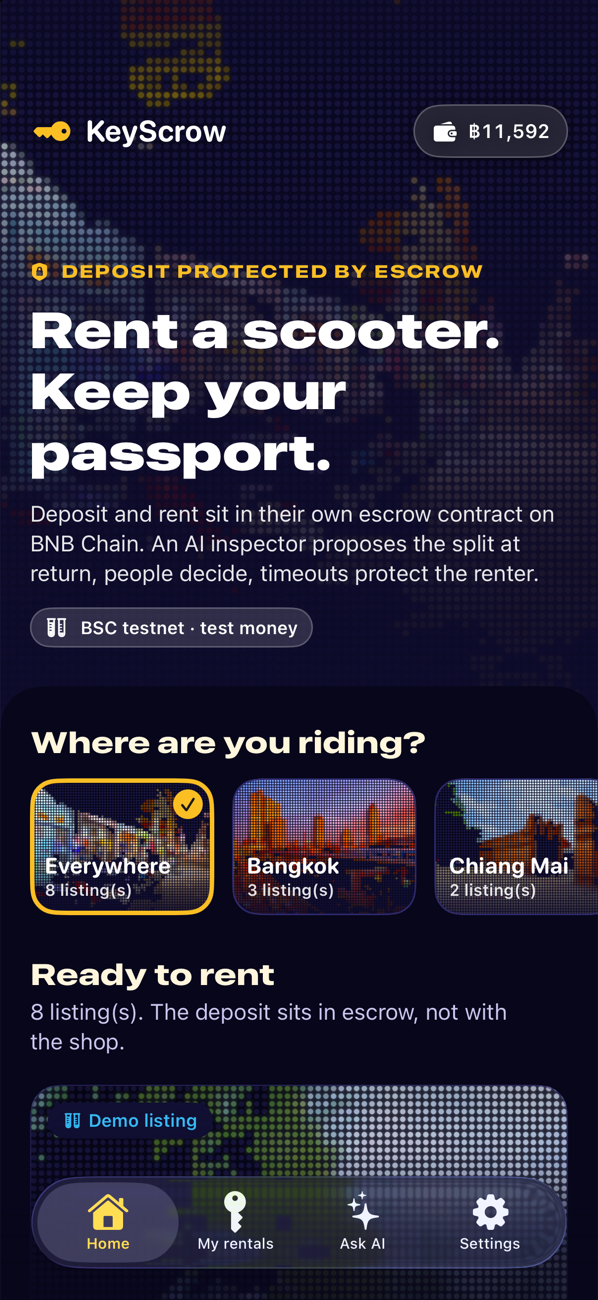
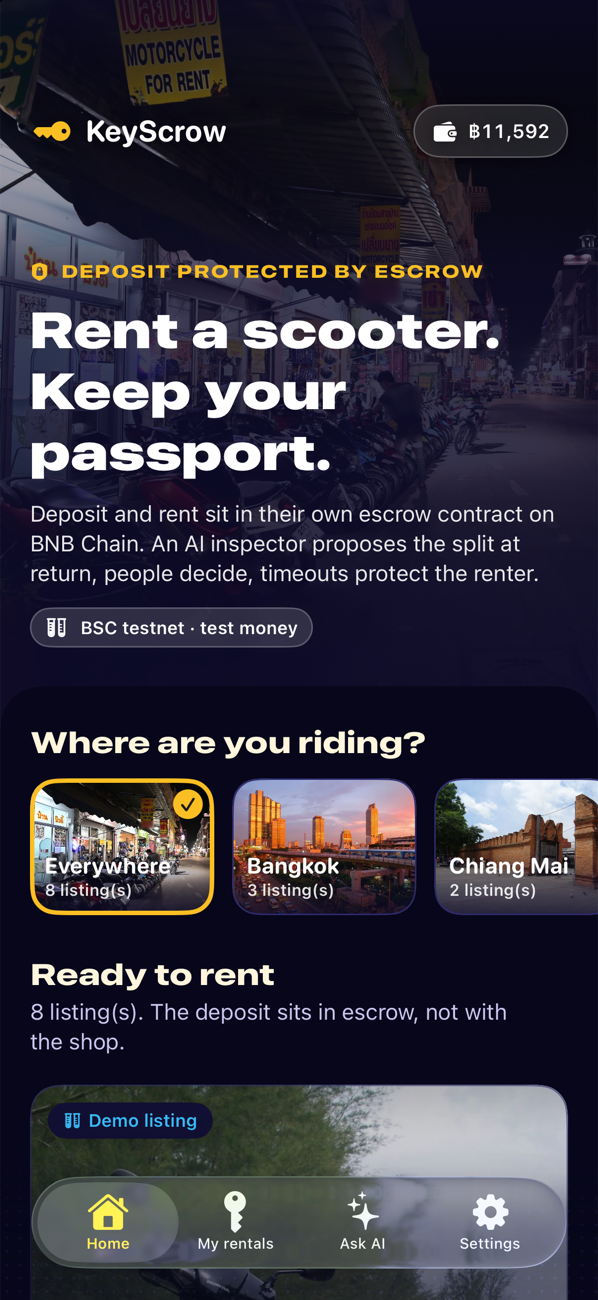
ios: LED sign keeps the photos real; the dots go on the interface
Photos are always the real photos again (no dot-matrix rendering). In the LED design the interface
is the signboard: a board of unlit LEDs behind every screen (LEDDotGrid), dotted amber LED frames
around the cards, a dot-grid tile where there is no photo, the Settings preview shows an LED amount.
Prices in LED digits as before. 39 unit tests pass.

diff --git a/ios/KeyEscrow/Design/LED.swift b/ios/KeyEscrow/Design/LED.swift
@@ -2,8 +2,8 @@ import SwiftUI
 import UIKit
 
 /// The two looks of the app. "Photos" is the default (real photos, the web app's slate tokens). "LED sign" is the
-/// marketing page's look (docs/DESIGN.md, web/components/marketing): a night street of LED signboards, the photos
-/// redrawn as glowing dot matrices, amounts in the board's 5x9 LED font.
+/// marketing page's look (docs/DESIGN.md, web/components/marketing): the interface as a night LED signboard (a board of
+/// unlit dots behind every screen, dotted LED frames on cards, amounts in the board's 5x9 LED font); photos stay photos.
 enum Design: String, CaseIterable { case photos, led }
 
 /// The active design, read by the colour tokens and the type scale. Set by AppSettings; the root view is rebuilt
@@ -35,66 +35,30 @@ enum LEDPalette {
     static let teal = Color(uiColor: UIColor(hex: 0x2DD4BF))
 }
 
-// MARK: Photos as LED dot matrices
+// MARK: The LED board behind the interface
 
-/// Redraws a bundled photo as an LED signboard: the picture averaged into a grid, every cell one round LED in that
-/// colour (saturated, glowing), dark cells left as unlit dots. Rendered once per photo and size, then cached.
-enum DotMatrix {
-    private static let cache = NSCache<NSString, UIImage>()
+/// A field of unlit LEDs: the board the signs are on. Drawn once per size (Canvas), behind screens and tiles.
+struct LEDDotGrid: View {
+    var spacing: CGFloat = 9
+    var dot: CGFloat = 1.8
+    var color = Color(uiColor: LEDPalette.dotOff)
 
-    static func image(asset: String, cols: Int = 70) -> UIImage? {
-        let key = "\(asset)@\(cols)" as NSString
-        if let hit = cache.object(forKey: key) { return hit }
-        guard let src = UIImage(named: asset)?.cgImage else { return nil }
-        let rows = max(1, Int((Double(cols) * Double(src.height) / Double(src.width)).rounded()))
-        guard let out = render(src, cols: cols, rows: rows) else { return nil }
-        cache.setObject(out, forKey: key)
-        return out
-    }
-
-    static func render(_ src: CGImage, cols: Int, rows: Int, cell: CGFloat = 16) -> UIImage? {
-        var px = [UInt8](repeating: 0, count: cols * rows * 4)
-        let ok = px.withUnsafeMutableBytes { buf -> Bool in
-            guard let ctx = CGContext(data: buf.baseAddress, width: cols, height: rows, bitsPerComponent: 8, bytesPerRow: cols * 4,
-                                      space: CGColorSpace(name: CGColorSpace.sRGB)!, bitmapInfo: CGImageAlphaInfo.premultipliedLast.rawValue)
-            else { return false }
-            ctx.interpolationQuality = .high
-            ctx.draw(src, in: CGRect(x: 0, y: 0, width: cols, height: rows))
-            return true
-        }
-        guard ok else { return nil }
-        let size = CGSize(width: CGFloat(cols) * cell, height: CGFloat(rows) * cell)
-        let format = UIGraphicsImageRendererFormat()
-        format.scale = 1
-        format.opaque = true
-        return UIGraphicsImageRenderer(size: size, format: format).image { r in
-            let ctx = r.cgContext
-            LEDPalette.panel.setFill()
-            ctx.fill(CGRect(origin: .zero, size: size))
-            let inset = cell * 0.14
-            for y in 0..<rows {
-                for x in 0..<cols {
-                    let i = (y * cols + x) * 4
-                    var c = UIColor(red: CGFloat(px[i]) / 255, green: CGFloat(px[i + 1]) / 255, blue: CGFloat(px[i + 2]) / 255, alpha: 1)
-                    var h: CGFloat = 0, s: CGFloat = 0, b: CGFloat = 0, a: CGFloat = 0
-                    c.getHue(&h, saturation: &s, brightness: &b, alpha: &a)
-                    let rect = CGRect(x: CGFloat(x) * cell + inset, y: CGFloat(y) * cell + inset, width: cell - 2 * inset, height: cell - 2 * inset)
-                    // Signboard contrast: mid-tones sink, highlights glow.
-                    b = pow(b, 1.6)
-                    if b < 0.12 {
-                        // An unlit LED: the board shows through.
-                        ctx.setShadow(offset: .zero, blur: 0, color: nil)
-                        LEDPalette.dotOff.setFill()
-                        ctx.fillEllipse(in: rect)
-                        continue
-                    }
-                    c = UIColor(hue: h, saturation: min(1, s * 1.5 + 0.08), brightness: min(1, 0.35 + b * 0.9), alpha: 1)
-                    ctx.setShadow(offset: .zero, blur: cell * 0.55, color: c.withAlphaComponent(0.75).cgColor)
-                    c.setFill()
-                    ctx.fillEllipse(in: rect)
+    var body: some View {
+        Canvas { ctx, size in
+            var p = Path()
+            var y = spacing / 2
+            while y < size.height {
+                var x = spacing / 2
+                while x < size.width {
+                    p.addEllipse(in: CGRect(x: x - dot / 2, y: y - dot / 2, width: dot, height: dot))
+                    x += spacing
                 }
+                y += spacing
             }
+            ctx.fill(p, with: .color(color))
         }
+        .allowsHitTesting(false)
+        .accessibilityHidden(true)
     }
 }
 

diff --git a/ios/KeyEscrow/Design/Photos.swift b/ios/KeyEscrow/Design/Photos.swift
@@ -193,13 +193,7 @@ struct PhotoFill: View {
     let asset: String
     var body: some View {
         Color.KE.muted
-            .overlay {
-                if DesignMode.led, let led = DotMatrix.image(asset: asset) {
-                    Image(uiImage: led).resizable().scaledToFill()
-                } else {
-                    Image(asset).resizable().scaledToFill()
-                }
-            }
+            .overlay { Image(asset).resizable().scaledToFill() }
             .clipped()
             .accessibilityHidden(true)
     }
@@ -220,8 +214,7 @@ struct ListingPhoto: View {
             if let asset = PhotoCatalog.asset(forListing: listingId) { PhotoFill(asset: asset) } else { NightTile(symbol: symbol) }
         }
         .overlay {
-            // The LED design draws the bundled copy as a dot matrix; the server photo would cover it.
-            if !DesignMode.led, let url = APIClient().absolute(serverPhoto) {
+            if let url = APIClient().absolute(serverPhoto) {
                 AsyncImage(url: url) { phase in
                     if case .success(let img) = phase { img.resizable().scaledToFill() }
                 }
@@ -239,6 +232,7 @@ struct NightTile: View {
         GeometryReader { geo in
             ZStack {
                 LinearGradient(colors: [Color.KE.night, Color.KE.nightSoft], startPoint: .topLeading, endPoint: .bottomTrailing)
+                if DesignMode.led { LEDDotGrid(spacing: 6, dot: 2.2) }
                 Image(systemName: symbol)
                     .font(.system(size: min(geo.size.width, geo.size.height) * 0.4, weight: .semibold))
                     .foregroundStyle(Color.KE.sign)
@@ -256,9 +250,7 @@ struct ListingThumb: View {
     var symbol = "key.horizontal.fill"
     var body: some View {
         Group {
-            if DesignMode.led, let id = listingId, let asset = PhotoCatalog.asset(forListing: id), let img = DotMatrix.image(asset: asset, cols: 34) {
-                Image(uiImage: img).resizable().scaledToFill()
-            } else if let id = listingId, let asset = PhotoCatalog.asset(forListing: id), let img = PhotoCatalog.thumbnail(asset, side: side * 3) {
+            if let id = listingId, let asset = PhotoCatalog.asset(forListing: id), let img = PhotoCatalog.thumbnail(asset, side: side * 3) {
                 Image(uiImage: img).resizable().scaledToFill()
             } else {
                 NightTile(symbol: symbol)

diff --git a/ios/KeyEscrow/Design/Components.swift b/ios/KeyEscrow/Design/Components.swift
@@ -19,11 +19,28 @@ extension View {
     /// The card look on any view: surface fill, continuous corners, hairline, soft shadow.
     func keSurface(radius: CGFloat = Metrics.radius, fill: Color = .KE.surface) -> some View {
         background(fill, in: RoundedRectangle(cornerRadius: radius, style: .continuous))
-            .overlay(RoundedRectangle(cornerRadius: radius, style: .continuous).strokeBorder(Color.KE.border))
-            .shadow(color: Color.KE.shadow.opacity(0.06), radius: 14, x: 0, y: 6)
+            .overlay {
+                if DesignMode.led {
+                    // A frame of LEDs, as around the amounts on the website's money board.
+                    RoundedRectangle(cornerRadius: radius, style: .continuous)
+                        .strokeBorder(LEDPalette.amber.opacity(0.55), style: StrokeStyle(lineWidth: 2.2, lineCap: .round, dash: [0.1, 6]))
+                } else {
+                    RoundedRectangle(cornerRadius: radius, style: .continuous).strokeBorder(Color.KE.border)
+                }
+            }
+            .shadow(color: DesignMode.led ? LEDPalette.amber.opacity(0.10) : Color.KE.shadow.opacity(0.06), radius: 14, x: 0, y: DesignMode.led ? 0 : 6)
     }
 
-    func keScreen() -> some View { background(Color.KE.background.ignoresSafeArea()) }
+    /// The page background; in the LED design, the board of unlit dots the signs sit on.
+    func keScreen() -> some View {
+        background {
+            ZStack {
+                Color.KE.background
+                if DesignMode.led { LEDDotGrid() }
+            }
+            .ignoresSafeArea()
+        }
+    }
 
     /// Page column: the phone layout, centred on wider screens.
     func kePage() -> some View {

diff --git a/ios/KeyEscrow/Support/L10n.swift b/ios/KeyEscrow/Support/L10n.swift
@@ -211,8 +211,8 @@ enum L10n {
         "design.title": ("Design", "设计"),
         "design.photos": ("Photos", "照片"),
         "design.led": ("LED sign", "LED 招牌"),
-        "design.photos.note": ("Real photos, light or dark. Switch to LED sign for the night street of our website.", "真实照片，浅色或深色。切换到 LED 招牌，就是我们网站上的夜晚街景。"),
-        "design.led.note": ("The night street of our website: every photo redrawn as an LED board, prices in LED digits. Always dark.", "我们网站上的夜晚街景：每张照片都重绘成 LED 灯板，价格用 LED 数字显示。始终为深色。"),
+        "design.photos.note": ("The clean look, light or dark. Switch to LED sign for the night street of our website.", "简洁的外观，浅色或深色。切换到 LED 招牌，就是我们网站上的夜晚街景。"),
+        "design.led.note": ("The night street of our website: the app as an LED signboard, with LED frames and prices in LED digits. Photos stay photos. Always dark.", "我们网站上的夜晚街景：应用变成一块 LED 招牌，带 LED 边框，价格用 LED 数字显示。照片保持原样。始终为深色。"),
         "settings.language": ("Language", "语言"),
         "settings.appearance": ("Appearance", "外观"),
         "settings.system": ("System", "跟随系统"),

diff --git a/ios/KeyEscrow/Features/Settings/SettingsView.swift b/ios/KeyEscrow/Features/Settings/SettingsView.swift
@@ -108,8 +108,12 @@ struct SettingsView: View {
         } label: {
             VStack(alignment: .leading, spacing: 8) {
                 Group {
-                    if d == .led, let led = DotMatrix.image(asset: PhotoCatalog.hero, cols: 60) {
-                        Image(uiImage: led).resizable().scaledToFill()
+                    if d == .led {
+                        ZStack {
+                            Color(uiColor: LEDPalette.panel)
+                            LEDDotGrid(spacing: 6, dot: 2)
+                            LEDAmount(text: "฿6,800", dot: 2)
+                        }
                     } else {
                         Image(PhotoCatalog.hero).resizable().scaledToFill()
                     }

diff --git a/ios/README.md b/ios/README.md
@@ -20,10 +20,11 @@ and talks to the live KeyScrow API. Testnet only: the app refuses to sign for an
 | --- | --- |
 | ![](screenshots/catalogue-home-light-en.png) | ![](screenshots/catalogue-vespa-dark-zh.png) |
 
-**Design: LED sign** (Settings > Design). The same app as the night street of the website: every photo redrawn as a
-glowing LED dot matrix (`DotMatrix`, rendered on the phone from the bundled photos), prices in the marketing board's
-5x9 LED digits (`LEDFont`, the glyphs of `web/components/marketing/led.ts`), signage type, amber buttons, always dark.
-Photos (the default) and LED sign switch instantly; `-design led` opens the app in it.
+**Design: LED sign** (Settings > Design). The app as the night street of the website: the interface becomes an LED
+signboard (a board of unlit dots behind every screen, `LEDDotGrid`; dotted LED frames around the cards; prices in the
+marketing board's 5x9 LED digits, `LEDFont`, the glyphs of `web/components/marketing/led.ts`), signage type, amber
+buttons, always dark. Photos stay real photos. Photos (the default design) and LED sign switch instantly; `-design led`
+opens the app in it.
 
 | LED sign: Home · EN | LED sign: a listing · 中文 | The switch in Settings |
 | --- | --- | --- |
